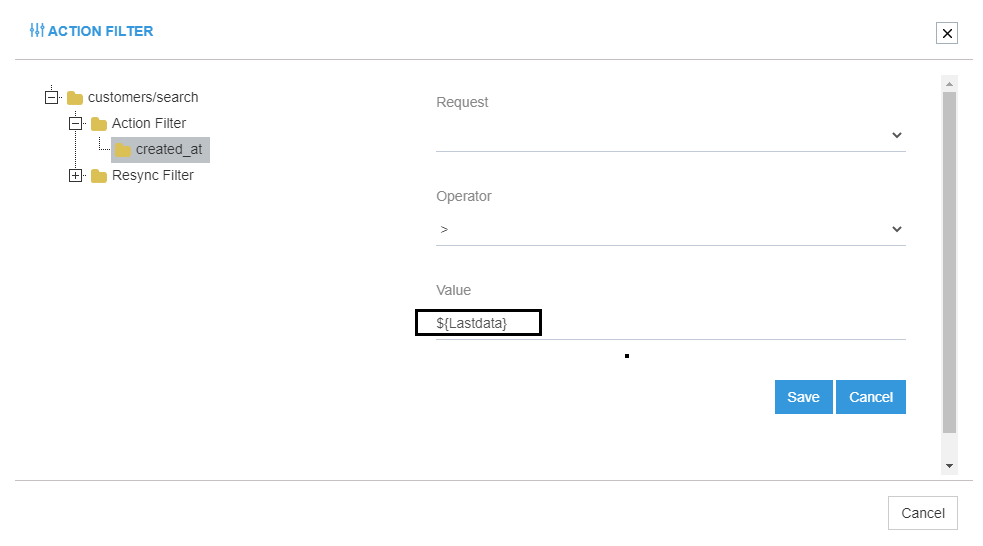
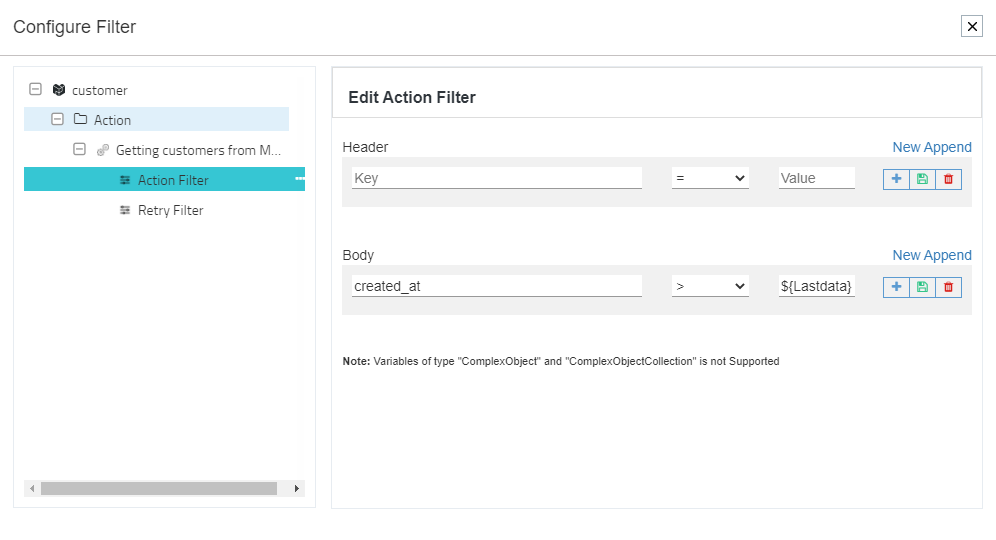
update  reviewed docs

diff --git a/_site/processflow/working-with-decision/index.html b/_site/processflow/working-with-decision/index.html
@@ -2685,7 +2685,7 @@
 
         <p>As all data for an Entity (For Ex: Order, Business Partner etc ) are transfered through packets which are further made up of attributes, you can implement your business flow by applying condition on required attribute. If decision node meets up the condition expression provided, the data will be passed.</p>
 
-        <p>_ <strong>Note: On applying decision on attribute using Xpath, the condition will be traversed only for the first data in the whole packet. You can implement splitter node  after GET such that every packet are splitted into single packet, for implementing decision on each data after transformation.</strong>_</p>
+        <p><strong>Note: On applying decision on attribute using Xpath, the condition will be traversed only for the first data in the whole packet. You can implement splitter node  after GET such that every packet are splitted into single packet, for implementing decision on each data after transformation.</strong></p>
       </li>
       <li>
         <p>Decision on <strong>Static Values:</strong></p>
@@ -2728,48 +2728,33 @@
 
 <h2 id="working-principle">Working Principle:</h2>
 
-<ol>
-  <li>Drag the decision node in the designer panel from the Process Property menu. The Decision Node Configuration Window opens.</li>
-</ol>
+<p>1)  Drag the decision node in the designer panel from the Process Property menu. The Decision Node Configuration Window opens.</p>
 
 <p><img src="\staticfiles\processflow\media\pfdecision2.PNG" alt="PFdecision2" /></p>
 
-<ol>
-  <li>
-    <p>You can view the above mentioned fields. Enter the name &amp; node description.</p>
-  </li>
-  <li>
-    <p>Click on the <strong>Add Criteria</strong> button. You can view the fields for providing the condition.</p>
-  </li>
-</ol>
+<p>2)  You can view the above mentioned fields. Enter the name &amp; node description.</p>
+
+<p>3) Click on the <strong>Add Criteria</strong> button. You can view the fields for providing the condition.</p>
 
 <p><img src="\staticfiles\processflow\media\pfdecision3.PNG" alt="PFdecision3" /></p>
 
-<ol>
-  <li>
-    <p>You need to provide the Decision KEY, for commanding the Decision Operation. Here you can view the decision key applied on the Decision Attribute.</p>
+<p>4) You need to provide the Decision KEY, for commanding the Decision Operation. Here you can view the decision key applied on the Decision Attribute.</p>
 
-    <p><strong>Scenario:</strong> Implementing Decision as Static.</p>
+<div class="language-plaintext highlighter-rouge"><div class="highlight"><pre class="highlight"><code>**Scenario:** Implementing Decision as Static.
 
-    <p><strong>Description:</strong> In this case, the scenario is implemented with fact keeping in mind that only if the node is able to prove that both the static values provided in the fields <code class="language-plaintext highlighter-rouge">Decision Key</code> &amp; <code class="language-plaintext highlighter-rouge">Value</code> is equal, the data will be passed as success.</p>
+**Description:** In this case, the scenario is implemented with fact keeping in mind that only if the node is able to prove that both the static values provided in the fields `Decision Key` &amp; `Value` is equal, the data will be passed as success.
 
-    <ul>
-      <li><strong>Decision Key:</strong> <code class="language-plaintext highlighter-rouge">20</code></li>
-      <li>
-        <p><strong>Operator:</strong> <code class="language-plaintext highlighter-rouge">=</code></p>
-      </li>
-      <li><strong>Value:</strong> <code class="language-plaintext highlighter-rouge">20</code></li>
-    </ul>
+- **Decision Key:** `20`
+- **Operator:** `=`
 
-    <p>AND</p>
+- **Value:** `20`
 
-    <ul>
-      <li><strong>Decision Key:</strong> <code class="language-plaintext highlighter-rouge">40</code></li>
-      <li><strong>Operator:</strong> <code class="language-plaintext highlighter-rouge">=</code></li>
-      <li><strong>Value:</strong> <code class="language-plaintext highlighter-rouge">40</code></li>
-    </ul>
-  </li>
-</ol>
+AND
+
+- **Decision Key:** `40`
+- **Operator:** `=`
+- **Value:** `40`
+</code></pre></div></div>
 
 <p><em><strong>Note:</strong></em></p>
 <ul>
@@ -2786,25 +2771,19 @@
 
 <p><img src="\staticfiles\processflow\media\pfdecision4.PNG" alt="PFdecision4" /></p>
 
-<ol>
-  <li>
-    <p>Enable the Toggle buttons for the criteria and click on the SAVE button.</p>
-  </li>
-  <li>
-    <p>Once all the configuration are made for the processflow. <a href="/processflow/deploying-and-executing-processfloww/">Deploy and Execute</a> the processflow.</p>
-  </li>
-  <li>
-    <p>After completion of the execution, you successfully view the snapshot for the Decision Node. <a href="/processflow/snapshot-processflow/">Click Here</a> to know more about processflow Snapshots. The <strong>Activity Log</strong> against the <code class="language-plaintext highlighter-rouge">Decision node</code> in snapshot will display you the status of the condition.</p>
-  </li>
-</ol>
+<p>5) Enable the Toggle buttons for the criteria and click on the SAVE button.</p>
+
+<p>6) Once all the configuration are made for the processflow. <a href="/processflow/deploying-and-executing-processfloww/">Deploy and Execute</a> the processflow.</p>
+
+<p>7) After completion of the execution, you successfully view the snapshot for the Decision Node. <a href="/processflow/snapshot-processflow/">Click Here</a> to know more about processflow Snapshots. The <strong>Activity Log</strong> against the <code class="language-plaintext highlighter-rouge">Decision node</code> in snapshot will display you the status of the condition.</p>
 
 <p><img src="\staticfiles\processflow\media\pfdecision5.PNG" alt="PFdecision5" /></p>
 
 <p><strong>Note:</strong></p>
 
-<p>**- The tabs <code class="language-plaintext highlighter-rouge">Data log</code> for the Decision Node will display list the data that entered the Decision Node.</p>
 <ul>
-  <li>The tab <code class="language-plaintext highlighter-rouge">Transaction File</code> will display you the INPUT file available in the GET node.**</li>
+  <li>The tabs <code class="language-plaintext highlighter-rouge">Data log</code> for the Decision Node will display list the data that entered the Decision Node.</li>
+  <li>The tab <code class="language-plaintext highlighter-rouge">Transaction File</code> will display you the INPUT file available in the GET node.</li>
 </ul>
 
 <p>Following the above process you can successfully implement Decision for a processflow.</p>

diff --git a/_site/processflow/processflow-package-installation/index.html b/_site/processflow/processflow-package-installation/index.html
@@ -2663,9 +2663,8 @@ This document will enable you to view and install incoming packages from other o
   <li>You need to have valid credential to the portal.</li>
   <li>You need to have packages shared with you from other organisation. For more details on how to share packages, <a href="/processflow/processflow-packaging/">click here</a>.</li>
   <li>Installation is mandatory to use packaged Processflows.</li>
-  <li>You will have TWO ways to install packages - <strong><a href="/processflow/processflow-package-installation/#install-from-actions-column">Install from Actions column</a></strong> &amp; <strong><a href="/processflow/processflow-package-installation/#install-from-view-packages">Install from View Packages</a></strong>. For more details, <a href="/processflow/processflow-package-installation/#installing-packages">Click Here</a></li>
-  <li>All the installed packages, its related Processflows will be available in the <a href="/processflow/processflow-listing-page/#installed-process-flows-folder">Install processflow</a> folder. A sub folder will be created same as that of the Package Name.</li>
-  <li>Processflows that are shared, if deleted from the folder <strong>Installed processflow</strong>, will move to the TRASH folder. However, you can anytime restore those Processflows from TRASH. The Processflows will be restored in the <strong>processflow</strong> folder.</li>
+  <li>You will have TWO ways to install/Reinstall your packages - <strong><a href="/processflow/processflow-package-installation/#install-from-actions-column">Install from Actions column</a></strong> &amp; <strong><a href="/processflow/processflow-package-installation/#install-from-view-packages">Install from View Packages</a></strong>. For more details, <a href="/processflow/processflow-package-installation/#installing-packages">Click Here</a></li>
+  <li>All the installed/reinstalled packages, its related Processflows will be available in the <a href="/processflow/processflow-listing-page/#installed-process-flows-folder">Install processflow</a> folder. A sub folder will be created same as that of the Package Name.</li>
 </ul>
 
 <h2 id="viewing-shared-packages">Viewing Shared Packages</h2>
@@ -2755,6 +2754,11 @@ Click on the <strong>Install</strong> button to install the package shared with 
 <p>7) Once installed, you can successfully <a href="/processflow/deploying-and-executing-processfloww/">deploy and execute</a> the shared Processflows on your organisation.</p>
 
 <p>Following the above process, you can successfully install the shared packages and execute the shared Processflows within those packages.</p>
+
+<p><strong>Note:</strong></p>
+<ul>
+  <li>While installing the package for the first time, if a <strong>different package with same name already exists</strong>, you will get to rename the package before the first installation.</li>
+</ul>
 
 <h2 id="reinstalling-packages">Reinstalling Packages</h2>
 

diff --git a/_site/processflow/copy-processflow/index.html b/_site/processflow/copy-processflow/index.html
@@ -2661,7 +2661,6 @@ This document will let you help in creating a copy of your designed Processflows
 <ul>
   <li>You need to have the ProcessFlows created. Steps are create ProcessFlow are <a href="/processflow/creating-processflow/">Given Here</a></li>
   <li>You will be provided with <strong>rename</strong> option before copying to the destination folder in case a processflow with same name is available already.</li>
-  <li>Any changes made to the original processflow after executing the copying the process, the same changes will not reflect once already copied.</li>
   <li>All the mappings and configurations made in the original processflow, will be copied while copying the processflow.</li>
   <li>All the copied versions will be treated as a New Designed processflow, hence the user needs to <a href="/processflow/deploying-and-executing-processfloww/">freshly deploy</a> the copied processflow, when required.</li>
   <li>Processflows that are copied from the <strong><a href="/processflow/processflow-listing-page/#process-flow-folder">ProcessFlow Folder</a> and its subfolders</strong> can be copied only within the same area, that is: <strong>ProcessFlow Folder and its Sub-Folder</strong>.</li>
@@ -2726,6 +2725,7 @@ If not renamed, your copied ProcessFlow will be named as <code class="language-p
 <ul>
   <li><strong>You cannot copy processflows from the ProcessFlow folder to Installed ProcessFlow Folder or vice versa.</strong></li>
   <li><strong>In-case of same name, you will have the option to rename your copied processflow before copying starts. If not renamed, your copied ProcessFlow will be named as <code class="language-plaintext highlighter-rouge">ProcessFlow name (n)</code>. Where <code class="language-plaintext highlighter-rouge">n</code> stands for the sequence of the same name. <code class="language-plaintext highlighter-rouge">For Ex: Business Partner Add (1)</code></strong>.</li>
+  <li>Once copied, any changes made to the original processflow, the updates will not reflect in its copied version.</li>
 </ul>
 
 

diff --git a/_site/processflow/technology-app-creation-using-processflow/index.html b/_site/processflow/technology-app-creation-using-processflow/index.html
@@ -2726,10 +2726,18 @@ With processflow, you can now create your customized technology application supp
 
 <p>5) Enter the details in the Node configuration window and click on the save button.</p>
 
-<p><strong>Note:</strong>
-    - <a href="/processflow/adding-schema-actions/">Click here</a> to know more about the process to create Schemas and Actions for the created technology app.
-    - The <a href="/processflow/deploying-and-executing-processfloww/">process to deploy and execute the processflows</a> remains the same for Technology applications
-    - You can also view the <a href="/processflow/snapshot-processflow/">processflow snapshots</a>, similar to as that of the prepackaged apps.</p>
+<p><strong>Note:</strong></p>
+<ul>
+  <li>
+    <p><a href="/processflow/adding-schema-actions/">Click here</a> to know more about the process to create Schemas and Actions for the created technology app.</p>
+  </li>
+  <li>
+    <p>The <a href="/processflow/deploying-and-executing-processfloww/">process to deploy and execute the processflows</a> remains the same for Technology applications</p>
+  </li>
+  <li>
+    <p>You can also view the <a href="/processflow/snapshot-processflow/">processflow snapshots</a>, similar to as that of the prepackaged apps.</p>
+  </li>
+</ul>
 
 <p class="notice--info"><strong>Protip:</strong> For more details related to the technology app, <a href="/connectors/Overview-of-technology-connectors/">click here</a>.</p>
 

diff --git a/_site/processflow/working-with-processflow-delay/index.html b/_site/processflow/working-with-processflow-delay/index.html
@@ -2696,9 +2696,11 @@ Dragging the Delay node in the Designer panel, you can view the following fields
 
 <p><strong>Note:</strong></p>
 
-<p><strong>- For Static Time, the time format should be provided as hr (hours), min (minutes), sec (seconds), and ms (milliseconds).</strong>
-**- For Dynamic Time, you need to provide the expression using proper syntax.
-**- You need to provide <code class="language-plaintext highlighter-rouge">~ (tilt icon)</code> along with the curly braces <code class="language-plaintext highlighter-rouge">{}</code> both at the front and back when providing the generic function. For Ex: <code class="language-plaintext highlighter-rouge">~{gen:GetContextualData(Variable Name)}~</code></p>
+<p><strong>- For Static Time, the time format should be provided as hr (hours), min (minutes), sec (seconds), and ms (milliseconds).</strong></p>
+
+<p><strong>- For Dynamic Time, you need to provide the expression using proper syntax.</strong></p>
+
+<p><strong>- You need to provide <code class="language-plaintext highlighter-rouge">~ (tilt icon)</code> along with the curly braces <code class="language-plaintext highlighter-rouge">{}</code> both at the front and back when providing the generic function. For Ex: <code class="language-plaintext highlighter-rouge">~{gen:GetContextualData(Variable Name)}~</code></strong></p>
 
 <h3 id="prerequisities">Prerequisities</h3>
 

diff --git a/_site/processflow/working-with-variable/index.html b/_site/processflow/working-with-variable/index.html
@@ -2825,7 +2825,7 @@ in the <a href="/processflow/designer-processflow/">designer section</a>.</p>
 
 <p><img src="\staticfiles\processflow\media\var3.png" alt="var9" /></p>
 
-<p>5) Navigate to the General tab and click on the <strong>Configure Action Filter</strong> button. Expand the Action filer node and click on the <code class="language-plaintext highlighter-rouge">created_at</code>.</p>
+<p>5) Navigate to the General tab and click on the <strong>Configure Filter</strong> button. Expand the Action filer node and click on the <code class="language-plaintext highlighter-rouge">created_at</code>. To know more about Actions &amp; Action Filters, <a href="/processflow/manage-actions-actionfilters-errorfilters/">Click Here</a></p>
 
 <p>6) Enter the Variable name in the <code class="language-plaintext highlighter-rouge">Value</code> field and click on the save button.</p>
 

diff --git a/_site/processflow/working-with-revamped-merger/index.html b/_site/processflow/working-with-revamped-merger/index.html
@@ -2672,8 +2672,6 @@ The <code class="language-plaintext highlighter-rouge">Wait for no. of documents
 Merger node will again execute and will combine the next TWO sets and post as an another single document. The cycle will continue again and combine the next TWO set in the same way.
 The below sheet will give you a graphical representation of the above described scenario.</p>
 
-<p><img src="\staticfiles\processflow\media\mergedoc1.png" alt="mergedoc1" /></p>
-
 <p><strong>Note: The <code class="language-plaintext highlighter-rouge">Wait for no. of documents</code> should not allow 0 as input and the range of batch size value 
 should be 1-999.</strong></p>
 

diff --git a/_posts/ProcessFlow Management/Nodes and Links/2018-09-24-working-with-decision.md b/_posts/ProcessFlow Management/Nodes and Links/2018-09-24-working-with-decision.md
@@ -39,7 +39,7 @@ The following are the fields that you will get on dragging the Decision Node in 
     
         As all data for an Entity (For Ex: Order, Business Partner etc ) are transfered through packets which are further made up of attributes, you can implement your business flow by applying condition on required attribute. If decision node meets up the condition expression provided, the data will be passed.
 
-       _ **Note: On applying decision on attribute using Xpath, the condition will be traversed only for the first data in the whole packet. You can implement splitter node  after GET such that every packet are splitted into single packet, for implementing decision on each data after transformation.**_
+       **Note: On applying decision on attribute using Xpath, the condition will be traversed only for the first data in the whole packet. You can implement splitter node  after GET such that every packet are splitted into single packet, for implementing decision on each data after transformation.**
 
     - Decision on **Static Values:**
 
@@ -69,17 +69,17 @@ _**Note:** You can only provide those Appresource Functions (both Cloud & Generi
 
 ## Working Principle:
 
-1.  Drag the decision node in the designer panel from the Process Property menu. The Decision Node Configuration Window opens.
+1)  Drag the decision node in the designer panel from the Process Property menu. The Decision Node Configuration Window opens.
 
 ![PFdecision2](\staticfiles\processflow\media\pfdecision2.PNG)
 
-2.  You can view the above mentioned fields. Enter the name & node description. 
+2)  You can view the above mentioned fields. Enter the name & node description. 
 
-3. Click on the **Add Criteria** button. You can view the fields for providing the condition.
+3) Click on the **Add Criteria** button. You can view the fields for providing the condition.
 
 ![PFdecision3](\staticfiles\processflow\media\pfdecision3.PNG)
 
-3. You need to provide the Decision KEY, for commanding the Decision Operation. Here you can view the decision key applied on the Decision Attribute.
+4) You need to provide the Decision KEY, for commanding the Decision Operation. Here you can view the decision key applied on the Decision Attribute.
 
     **Scenario:** Implementing Decision as Static.
 
@@ -105,18 +105,18 @@ _**Note:**_
 
 ![PFdecision4](\staticfiles\processflow\media\pfdecision4.PNG)
 
-5. Enable the Toggle buttons for the criteria and click on the SAVE button.
+5) Enable the Toggle buttons for the criteria and click on the SAVE button.
 
-6. Once all the configuration are made for the processflow. [Deploy and Execute](/processflow/deploying-and-executing-processfloww/) the processflow.
+6) Once all the configuration are made for the processflow. [Deploy and Execute](/processflow/deploying-and-executing-processfloww/) the processflow.
 
-7. After completion of the execution, you successfully view the snapshot for the Decision Node. [Click Here](/processflow/snapshot-processflow/) to know more about processflow Snapshots. The **Activity Log** against the `Decision node` in snapshot will display you the status of the condition.
+7) After completion of the execution, you successfully view the snapshot for the Decision Node. [Click Here](/processflow/snapshot-processflow/) to know more about processflow Snapshots. The **Activity Log** against the `Decision node` in snapshot will display you the status of the condition.
 
 ![PFdecision5](\staticfiles\processflow\media\pfdecision5.PNG)
 
 **Note:** 
 
-**- The tabs `Data log` for the Decision Node will display list the data that entered the Decision Node.
-- The tab `Transaction File` will display you the INPUT file available in the GET node.**
+- The tabs `Data log` for the Decision Node will display list the data that entered the Decision Node.
+- The tab `Transaction File` will display you the INPUT file available in the GET node.
 
 Following the above process you can successfully implement Decision for a processflow.
 

diff --git a/_posts/ProcessFlow Management/Packaging Process Flows/2020-08-18-processflow-package-installation.md b/_posts/ProcessFlow Management/Packaging Process Flows/2020-08-18-processflow-package-installation.md
@@ -19,9 +19,8 @@ This document will enable you to view and install incoming packages from other o
 - You need to have valid credential to the portal.
 - You need to have packages shared with you from other organisation. For more details on how to share packages, [click here](/processflow/processflow-packaging/).
 - Installation is mandatory to use packaged Processflows.
-- You will have TWO ways to install packages - **[Install from Actions column](/processflow/processflow-package-installation/#install-from-actions-column)** & **[Install from View Packages](/processflow/processflow-package-installation/#install-from-view-packages)**. For more details, [Click Here](/processflow/processflow-package-installation/#installing-packages)
-- All the installed packages, its related Processflows will be available in the [Install processflow](/processflow/processflow-listing-page/#installed-process-flows-folder) folder. A sub folder will be created same as that of the Package Name.
-- Processflows that are shared, if deleted from the folder **Installed processflow**, will move to the TRASH folder. However, you can anytime restore those Processflows from TRASH. The Processflows will be restored in the **processflow** folder.
+- You will have TWO ways to install/Reinstall your packages - **[Install from Actions column](/processflow/processflow-package-installation/#install-from-actions-column)** & **[Install from View Packages](/processflow/processflow-package-installation/#install-from-view-packages)**. For more details, [Click Here](/processflow/processflow-package-installation/#installing-packages)
+- All the installed/reinstalled packages, its related Processflows will be available in the [Install processflow](/processflow/processflow-listing-page/#installed-process-flows-folder) folder. A sub folder will be created same as that of the Package Name.
 
 ## Viewing Shared Packages
 
@@ -102,6 +101,9 @@ Click on the **Install** button to install the package shared with you.
 7) Once installed, you can successfully [deploy and execute](/processflow/deploying-and-executing-processfloww/) the shared Processflows on your organisation. 
 
 Following the above process, you can successfully install the shared packages and execute the shared Processflows within those packages.
+
+**Note:**
+- While installing the package for the first time, if a **different package with same name already exists**, you will get to rename the package before the first installation.
 
 ## Reinstalling Packages
 

diff --git a/_posts/ProcessFlow Management/Quickstart/2020-10-12-copy-processflow.md b/_posts/ProcessFlow Management/Quickstart/2020-10-12-copy-processflow.md
@@ -21,7 +21,6 @@ This document will let you help in creating a copy of your designed Processflows
 
 - You need to have the ProcessFlows created. Steps are create ProcessFlow are [Given Here](/processflow/creating-processflow/)
 - You will be provided with **rename** option before copying to the destination folder in case a processflow with same name is available already.
-- Any changes made to the original processflow after executing the copying the process, the same changes will not reflect once already copied.
 - All the mappings and configurations made in the original processflow, will be copied while copying the processflow.
 - All the copied versions will be treated as a New Designed processflow, hence the user needs to [freshly deploy](/processflow/deploying-and-executing-processfloww/) the copied processflow, when required.
 - Processflows that are copied from the **[ProcessFlow Folder](/processflow/processflow-listing-page/#process-flow-folder) and its subfolders** can be copied only within the same area, that is: **ProcessFlow Folder and its Sub-Folder**.
@@ -83,5 +82,6 @@ Following the above process, you can successfully copy your processflows from on
 
 - **You cannot copy processflows from the ProcessFlow folder to Installed ProcessFlow Folder or vice versa.**
 - **In-case of same name, you will have the option to rename your copied processflow before copying starts. If not renamed, your copied ProcessFlow will be named as `ProcessFlow name (n)`. Where `n` stands for the sequence of the same name. `For Ex: Business Partner Add (1)`**.
+- Once copied, any changes made to the original processflow, the updates will not reflect in its copied version.
 
 

diff --git a/_posts/ProcessFlow Management/Quickstart/2020-07-27-technology-app-creation-using-processflow.md b/_posts/ProcessFlow Management/Quickstart/2020-07-27-technology-app-creation-using-processflow.md
@@ -86,9 +86,11 @@ You may require to reuse the same created techology app in the same processflow 
 5) Enter the details in the Node configuration window and click on the save button.
 
 **Note:**
-    - [Click here](/processflow/adding-schema-actions/) to know more about the process to create Schemas and Actions for the created technology app.
-    - The [process to deploy and execute the processflows](/processflow/deploying-and-executing-processfloww/) remains the same for Technology applications
-    - You can also view the [processflow snapshots](/processflow/snapshot-processflow/), similar to as that of the prepackaged apps.
+- [Click here](/processflow/adding-schema-actions/) to know more about the process to create Schemas and Actions for the created technology app.
+
+- The [process to deploy and execute the processflows](/processflow/deploying-and-executing-processfloww/) remains the same for Technology applications
+
+- You can also view the [processflow snapshots](/processflow/snapshot-processflow/), similar to as that of the prepackaged apps.
     
 **Protip:** For more details related to the technology app, [click here](/connectors/Overview-of-technology-connectors/).
  {: .notice--info}

diff --git a/_posts/ProcessFlow Management/Nodes and Links/2020-07-21-working-with-processflow-delay.md b/_posts/ProcessFlow Management/Nodes and Links/2020-07-21-working-with-processflow-delay.md
@@ -43,8 +43,10 @@ Dragging the Delay node in the Designer panel, you can view the following fields
 **Note:**
 
 **- For Static Time, the time format should be provided as hr (hours), min (minutes), sec (seconds), and ms (milliseconds).**
-**- For Dynamic Time, you need to provide the expression using proper syntax.
-**- You need to provide `~ (tilt icon)` along with the curly braces `{}` both at the front and back when providing the generic function. For Ex: `~{gen:GetContextualData(Variable Name)}~`
+
+**- For Dynamic Time, you need to provide the expression using proper syntax.**
+
+**- You need to provide `~ (tilt icon)` along with the curly braces `{}` both at the front and back when providing the generic function. For Ex: `~{gen:GetContextualData(Variable Name)}~`**
 
 ### Prerequisities
 
